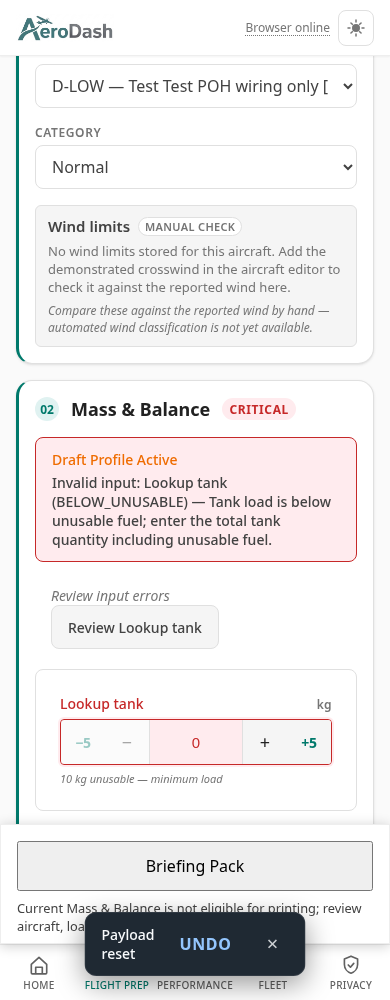
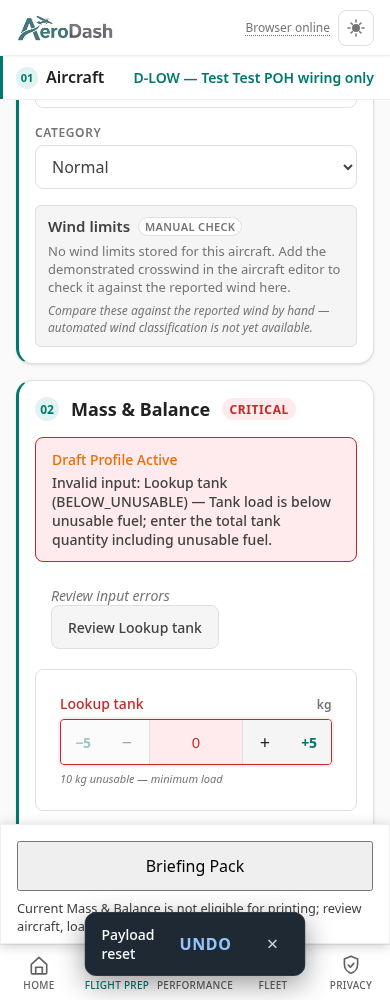
test(mb): attach final-head lookup regression evidence (refs #534)

Changed region(s): [[0.3385, 0.062, 0.9538, 0.093], [0.1231, 0.062, 0.2769, 0.093], [0.0, 0.062, 0.0923, 0.093]]

diff --git a/README.md b/README.md
@@ -1,10 +1,10 @@
 # Lookup fuel regression evidence
 
-Tested product head: `75077af090df2c4769a418b862e92b5bcd74047f`.
+Tested product head: `ce20edf4a2b511e4cf79f4b8c1aeca3a389fea46`.
 Base and unchanged RED production: `4c86e451c0cd3007a6135ad7e0e4f0e155180c40`.
 All commands ran in existing `web-dev` toolbox at job-1624 worktree.
 
-- RED: `pnpm --filter frontend exec vitest run --config vitest.config.int.ts src/modules/mass-balance/stores/__tests__/lookup-fuel.int.spec.ts`: 26 passed, 2 failed on missing WARN-MB-005. Production store unchanged; test commit `0c4b9b1`.
+- RED: `pnpm --filter frontend exec vitest run --config vitest.config.int.ts src/modules/mass-balance/stores/__tests__/lookup-fuel.int.spec.ts`: 26 passed, 2 failed on missing WARN-MB-005. Production store unchanged; test commit `a5287d8` (tree-identical signed replay of `0c4b9b1`).
 - GREEN same command: 28 passed. Invalid raw lookup never calls the real adapter; separate valid cases retain real-adapter arithmetic.
 - `pnpm lint && pnpm test:unit`: passed; 108 files, 2263 unit tests.
 - `pnpm test:integration`: passed; 22 files, 208 tests.
@@ -13,3 +13,7 @@ All commands ran in existing `web-dev` toolbox at job-1624 worktree.
 - `pnpm --filter frontend exec playwright test --config playwright.offline.config.ts tests/offline-production/lookup-fuel-mb.spec.ts --output /var/home/critter/lokal/dev/agent-hq/var/jobs/1624/browser`: 2/2 passed, Chromium390/1440, production cached offline flow. Existing proof covers lookup fail-closed, correction, units, chart, print, fuel and offline behavior. Independent station-warning coexistence is integration-tested, not asserted by this browser spec.
 
 Screenshots show default-below-unusable validation and recovered cached-offline print at both widths. All54 browser files, including traces, remain in HQ job1624/browser; four representative screenshots attached here. Synthetic software evidence only; no operational POH validation, independent review, CI completion or integrated acceptance claimed. Issue534 stays open.
+
+Unit/lint/full integration/type-check were run on the identical product tree before signature replay. Targeted GREEN, build and both browser widths were rerun at final ce20edf head. GitHub verifies both product signatures. See [PR560](https://github.com/naturelle137/AeroDash/pull/560).
+
+The full-page print screenshot includes the underlying page below the viewport-height dialog; it proves text assertions, not full print-layout acceptance. Validation-message screenshots were visually inspected at both widths.
